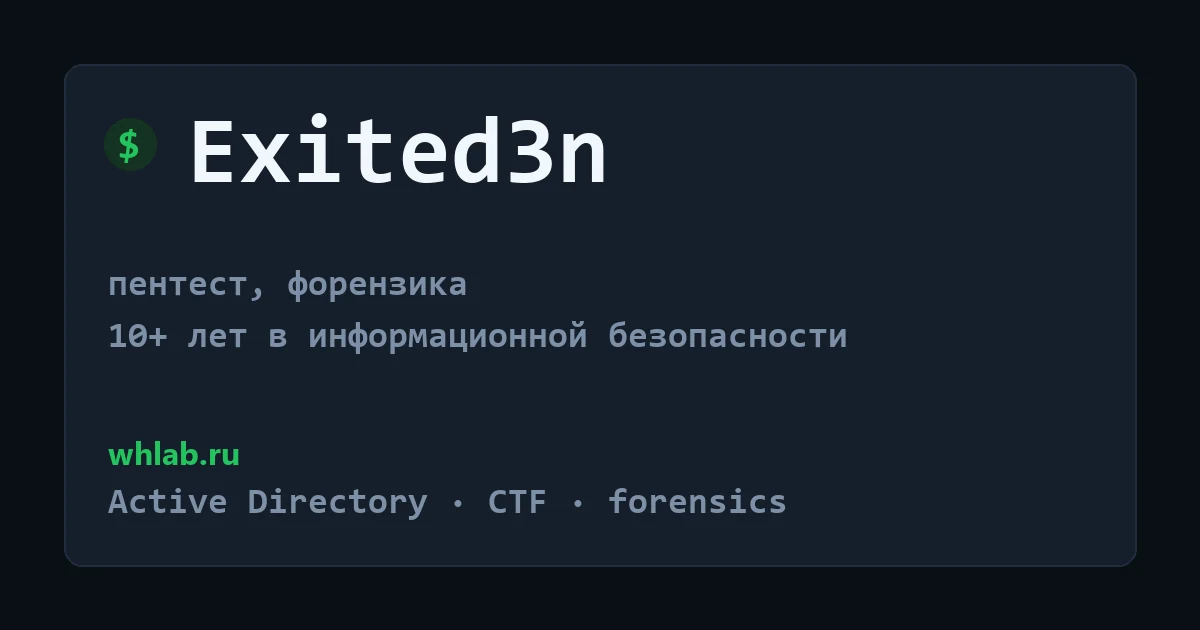
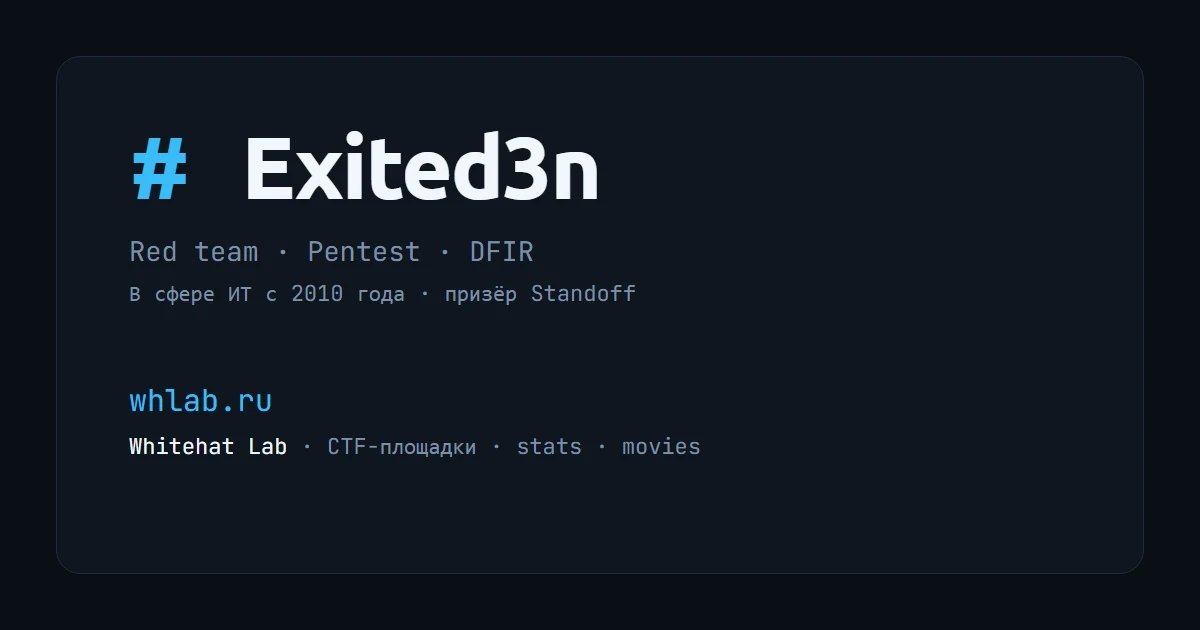
Generate og:image from the page palette instead of a stale binary
Превью для соцсетей было сделано руками один раз и с тех пор лежало
бинарём: правки страницы его не трогали. К моменту редизайна на нём
остались зелёный \$ из удалённой терминальной эстетики и строка
«10+ лет в информационной безопасности», которой на странице уже нет, —
и verify.py ловит возвращение этой строки в index.html, но не в картинке.

tools/og_image.py собирает превью из токенов css/tokens.css и рендерит
шаблон headless Edge, чтобы текст набирался теми же woff2, что и на
странице: Pillow понимает только ttf/otf и нарисовал бы другой
гарнитурой. Pillow нужен только для конвертации PNG -> WebP.

verify.py пересобирает превью и сверяет байт в байт, так что забытый
запуск скрипта теперь падает. Без Edge или Pillow проверка молча
пропускается и говорит об этом: требовать браузер ради ассетов значило
бы сделать verify.py непроходимым на CI без него.

diff --git a/tools/og_image.html b/tools/og_image.html
@@ -1,0 +1,129 @@
+<!DOCTYPE html>
+<html lang="ru">
+<head>
+<meta charset="utf-8">
+<title>og:image</title>
+<!-- Шаблон превью. Правь его и запускай `python tools/og_image.py`.
+
+     Цвета подставляет скрипт из css/tokens.css — здесь только имена токенов
+     вида {{--accent}}. Разделение сделано так, чтобы превью и страница
+     брали цвет из одного места: новое правило в tokens.css меняет и то и
+     другое сразу.
+
+     Шрифты подставляются скриптом как абсолютные file://-ссылки, потому
+     что страница собирается во временной папке, а шрифты лежат в static/.
+     Текст на карточке набирается теми же файлами, что и на whlab.ru. -->
+<style>
+  @font-face {
+    font-family: 'JetBrains Mono';
+    src: url('{{FONT_MONO}}') format('woff2');
+    font-weight: 400;
+  }
+  @font-face {
+    font-family: 'Ubuntu';
+    src: url('{{FONT_SANS}}') format('woff2');
+    font-weight: 700;
+  }
+
+  * { margin: 0; padding: 0; box-sizing: border-box; }
+
+  html, body {
+    width: 1200px;
+    height: 630px;
+    overflow: hidden;
+  }
+
+  body {
+    background: {{--bg}};
+    font-family: 'JetBrains Mono', ui-monospace, monospace;
+    display: flex;
+    align-items: center;
+    padding: 56px;
+  }
+
+  /* Плитка повторяет карточки страницы: та же подложка и та же рамка.
+     Радиус здесь крупнее, чем --radius-lg на странице, и это осознанно:
+     карточка 1200px в ширину, и её собственный 14px на таком размере
+     читаются как почти прямой угол. Пропорция, а не значение, та же. */
+  .card {
+    width: 100%;
+    background: {{--surface}};
+    border: 1px solid {{--border}};
+    border-radius: 24px;
+    padding: 64px 72px;
+    display: flex;
+    flex-direction: column;
+    height: 518px;
+  }
+
+  .name {
+    font-family: 'Ubuntu', sans-serif;
+    font-weight: 700;
+    /* 88px — около того, чем имя набиралось на странице до редизайна.
+       На самой странице оно теперь 48px, но на превью это единственный
+       крупный элемент и он должен читаться в ленте на телефоне, где
+       картинку видят шириной с ноготь. */
+    font-size: 88px;
+    line-height: 1.05;
+    letter-spacing: -0.02em;
+    color: {{--text-strong}};
+    display: flex;
+    align-items: baseline;
+  }
+
+  /* Решётка в тон заголовкам блоков страницы — так превью узнаётся
+     как часть визитки, а не как отдельная картинка. */
+  .hash { color: {{--accent}}; margin-right: 0.6em; }
+
+  .role {
+    margin-top: 20px;
+    font-size: 27px;
+    color: {{--muted}};
+  }
+
+  /* Строка о стаже — из блока about, не выдумка: превью должно
+     показывать то, что откроется по ссылке. Заодно она закрывает
+     полосу пустоты, которая оставалась между ролью и подвалом. */
+  .since {
+    margin-top: 10px;
+    font-size: 22px;
+    color: {{--muted}};
+  }
+
+  /* Подвал не прижат к низу: при margin-top:auto между блоком сверху и
+     ним оставалась пустота в половину карточки, и превью читалось как
+     пустая рамка с именем в углу. */
+  .foot {
+    margin-top: 72px;
+    display: flex;
+    flex-direction: column;
+    gap: 12px;
+  }
+
+  .domain {
+    font-size: 30px;
+    color: {{--accent}};
+  }
+
+  /* Подпись канала: на странице это первая строка панели проектов и
+     главный переход, ради которого визитку и делают. */
+  .tag {
+    font-size: 22px;
+    color: {{--muted}};
+  }
+
+  .tag b { color: {{--text-strong}}; font-weight: 400; }
+</style>
+</head>
+<body>
+  <div class="card">
+    <div class="name"><span class="hash">#</span>Exited3n</div>
+    <div class="role">Red team · Pentest · DFIR</div>
+    <div class="since">В сфере ИТ с 2010 года · призёр Standoff</div>
+    <div class="foot">
+      <div class="domain">whlab.ru</div>
+      <div class="tag"><b>Whitehat Lab</b> · CTF-площадки · stats · movies</div>
+    </div>
+  </div>
+</body>
+</html>

diff --git a/tools/og_image.py b/tools/og_image.py
@@ -1,0 +1,151 @@
+#!/usr/bin/env python3
+"""Собрать превью для соцсетей из палитры самой страницы.
+
+Картинка og:image раньше была сделана руками один раз и с тех пор лежала
+бинарём: правки страницы её не трогали, и к моменту редизайна на ней
+остались зелёный `$` из удалённой терминальной эстетики и строка «10+ лет
+в информационной безопасности», которую страница уже не повторяет.
+Превью в Telegram или Discord показывало то, чего на странице нет.
+
+Скрипт читает палитру из css/tokens.css и собирает картинку из тех же
+токенов, которыми нарисован сам whlab.ru. Превью и страница расходятся
+теперь только если разойдутся токены — а токены проверяются verify.py.
+
+Запуск: python tools/og_image.py
+Код возврата: 0 — картинка собрана, 1 — нет.
+
+Зависимости: Node не нужен. Нужен установленный Edge и Pillow.
+    pip install Pillow
+
+Почему рендер браузером, а не рисование Pillow'ом: карточка набирается
+теми же шрифтами, что и страница, а шрифты в проекте лежат в woff2, а
+Pillow понимает только ttf/otf. Конвертировать через браузер значит
+рисовать ровно тем, что видит посетитель.
+"""
+import re
+import shutil
+import subprocess
+import sys
+import tempfile
+from pathlib import Path
+
+ROOT = Path(__file__).resolve().parent.parent
+TEMPLATE = ROOT / "tools" / "og_image.html"
+OUTPUT = ROOT / "static" / "ogimage.webp"
+
+WIDTH = 1200
+HEIGHT = 630
+
+# Edge — самый предсказуемый из установленных: путь один и тот же на
+# любой машине этой команды, в отличие от Chrome, которого может не быть.
+EDGE_CANDIDATES = (
+    Path(r"C:\Program Files (x86)\Microsoft\Edge\Application\msedge.exe"),
+    Path(r"C:\Program Files\Microsoft\Edge\Application\msedge.exe"),
+)
+
+
+def die(message: str) -> "None":
+    print(f"ОШИБКА: {message}", file=sys.stderr)
+    sys.exit(1)
+
+
+def find_edge() -> Path:
+    for path in EDGE_CANDIDATES:
+        if path.exists():
+            return path
+    die("не найден Microsoft Edge — путь к нему задан в EDGE_CANDIDATES")
+
+
+def palette() -> dict[str, str]:
+    """Цвета тёмной темы из tokens.css.
+
+    Берётся блок :root, а не [data-theme='light']: превью показывается
+    в ленте, где фон тёмный, и светлая палитра там выглядела бы пятном.
+    Значения берутся как есть, без разбора rgba — превью непрозрачное.
+    """
+    raw = (ROOT / "css" / "tokens.css").read_text(encoding="utf-8")
+    m = re.search(r":root\s*\{(.*?)\n\}", raw, re.DOTALL)
+    if m is None:
+        die("в tokens.css не найден блок :root")
+    clean = re.sub(r"/\*.*?\*/", "", m.group(1), flags=re.DOTALL)
+    found = dict(re.findall(r"(--[a-z0-9-]+)\s*:\s*(#[0-9A-Fa-f]{6})\s*;", clean))
+    needed = ("--bg", "--surface", "--surface-2", "--text-strong", "--muted", "--accent", "--border")
+    missing = [n for n in needed if n not in found]
+    if missing:
+        die("в :root нет токенов: " + ", ".join(missing))
+    return {n: found[n] for n in needed}
+
+
+def render(html: Path, png: Path, edge: Path, profile: Path) -> None:
+    """Снять скриншот шаблона.
+
+    --user-data-dir обязателен и обязан быть отдельным: без него Edge
+    берёт профиль пользователя, где накопленные расширения и флаги
+    могут изменить результат. Меньший профиль — предсказуемее.
+    """
+    cmd = [
+        str(edge),
+        "--headless",
+        "--disable-gpu",
+        "--hide-scrollbars",
+        "--force-device-scale-factor=1",
+        f"--window-size={WIDTH},{HEIGHT}",
+        f"--user-data-dir={profile}",
+        f"--screenshot={png}",
+        html.as_uri(),
+    ]
+    proc = subprocess.run(cmd, capture_output=True, timeout=60)
+    if not png.exists():
+        die(f"Edge не собрал скриншот (код {proc.returncode}): {proc.stderr.decode(errors='replace')[:400]}")
+
+
+def encode(png: Path, webp: Path) -> None:
+    """PNG → WebP.
+
+    Webp, а не png: превью улетает в ленты при каждом репосте, и 5 КБ
+    против 10 КБ на плоской карточке — это разница, которую видно в
+    сети мобильного оператора, а не только в байтах репозитория.
+    """
+    try:
+        from PIL import Image, features
+    except ImportError:
+        die("нужен Pillow: pip install Pillow")
+    if not features.check("webp"):
+        die("сборка Pillow без поддержки webp")
+    with Image.open(png) as im:
+        im.convert("RGB").save(webp, "WEBP", quality=88, method=6)
+
+
+def main() -> int:
+    if not TEMPLATE.exists():
+        die(f"нет шаблона {TEMPLATE.relative_to(ROOT)}")
+    edge = find_edge()
+    colors = palette()
+
+    html = TEMPLATE.read_text(encoding="utf-8")
+    for token, value in colors.items():
+        html = html.replace(f"{{{{{token}}}}}", value)
+    leftover = re.findall(r"\{\{[a-z-]+\}\}", html)
+    if leftover:
+        die("в шаблоне остались неподставленные токены: " + ", ".join(sorted(set(leftover))))
+
+    with tempfile.TemporaryDirectory() as tmp:
+        tmpdir = Path(tmp)
+        page = tmpdir / "og.html"
+        png = tmpdir / "og.png"
+        # Шрифты лежат в static/, а страница-шаблон лежит во временной
+        # папке: путь к шрифтам в шаблоне задан абсолютным файловым URL и
+        # подставляется сюда, иначе относительный ушёл бы в никуда.
+        html = html.replace("{{FONT_MONO}}", (ROOT / "static" / "fonts" / "jetbrains-mono-latin.woff2").as_uri())
+        html = html.replace("{{FONT_SANS}}", (ROOT / "static" / "fonts" / "ubuntu-latin-700-normal.woff2").as_uri())
+        page.write_text(html, encoding="utf-8")
+        render(page, png, edge, tmpdir / "profile")
+        encode(png, OUTPUT)
+
+    before = OUTPUT.stat().st_size if OUTPUT.exists() else 0
+    print(f"Превью собрано: {OUTPUT.relative_to(ROOT)} — {WIDTH}x{HEIGHT}, {OUTPUT.stat().st_size} байт")
+    return 0
+
+
+if __name__ == "__main__":
+    sys.exit(main())

diff --git a/tools/verify.py b/tools/verify.py
@@ -1621,6 +1621,79 @@ def check_light_palette_consistency() -> None:
             )
 
 
+def check_og_image_fresh() -> None:
+    """Превью для соцсетей обязано собираться из текущей палитры.
+
+    Картинка og:image была сделана руками один раз и с тех пор жила
+    бинарём: правки страницы её не трогали, и к моменту редизайна на ней
+    остались зелёный `$` из удалённой эстетики и строка «10+ лет в
+    информационной безопасности», которой на странице уже нет. Скрипт
+    tools/og_image.py закрывает эту дыру, но только если им пользуются —
+    поэтому здесь превью пересобирается и сверяется байт в байт.
+
+    Рендер требует Edge и Pillow, которых на машине проверки может не
+    быть (например, в CI на Linux). Тогда проверка молча пропускается и
+    говорит об этом: требовать браузер ради ассетов — значит сделать
+    verify.py непроходимым на половине машин.
+    """
+    target = ROOT / "static" / "ogimage.webp"
+    script = ROOT / "tools" / "og_image.py"
+    if not script.exists():
+        errors.append("tools/og_image.py отсутствует — превью нечем пересобрать")
+        return
+    if not target.exists():
+        return  # существование файла проверяет check_meta
+
+    try:
+        from PIL import features  # noqa: F401
+    except ImportError:
+        notes.append("Превью: Pillow не установлен, проверка свежести пропущена")
+        return
+    if not features.check("webp"):
+        notes.append("Превью: Pillow без webp, проверка свежести пропущена")
+        return
+
+    import shutil
+    import subprocess
+    import sys
+    import tempfile
+
+    if not any(p.exists() for p in (
+        Path(r"C:\Program Files (x86)\Microsoft\Edge\Application\msedge.exe"),
+        Path(r"C:\Program Files\Microsoft\Edge\Application\msedge.exe"),
+    )):
+        notes.append("Превью: Edge не найден, проверка свежести пропущена")
+        return
+
+    keep = target.read_bytes()
+    try:
+        with tempfile.TemporaryDirectory() as tmp:
+            # Скрипт пишет по месту; отодвигаем текущий файл и сравниваем
+            # с тем, что соберётся заново из нынешних токенов.
+            target.write_bytes(b"")
+            rc = subprocess.run(
+                [sys.executable, str(script)], capture_output=True, timeout=120, cwd=ROOT
+            )
+            fresh = target.read_bytes()
+    finally:
+        target.write_bytes(keep)
+
+    if rc.returncode != 0 or not fresh:
+        notes.append(
+            "Превью: пересборка не удалась, свежесть не проверена "
+            f"({rc.stderr.decode(errors='replace')[:120].strip()})"
+        )
+        return
+
+    if fresh != keep:
+        errors.append(
+            "static/ogimage.webp не соответствует текущей палитре — "
+            "запусти `python tools/og_image.py` и закоммичь результат"
+        )
+    else:
+        notes.append("Превью: совпадает с текущей палитрой")
+
+
 def main() -> int:
     check_tokens()
     check_light_palette_consistency()
@@ -1646,6 +1719,7 @@ def main() -> int:
     check_hero()
     check_reduced_motion()
     check_no_literals_outside_tokens()
+    check_og_image_fresh()
     check_css_sanity()
 
     for n in notes:
